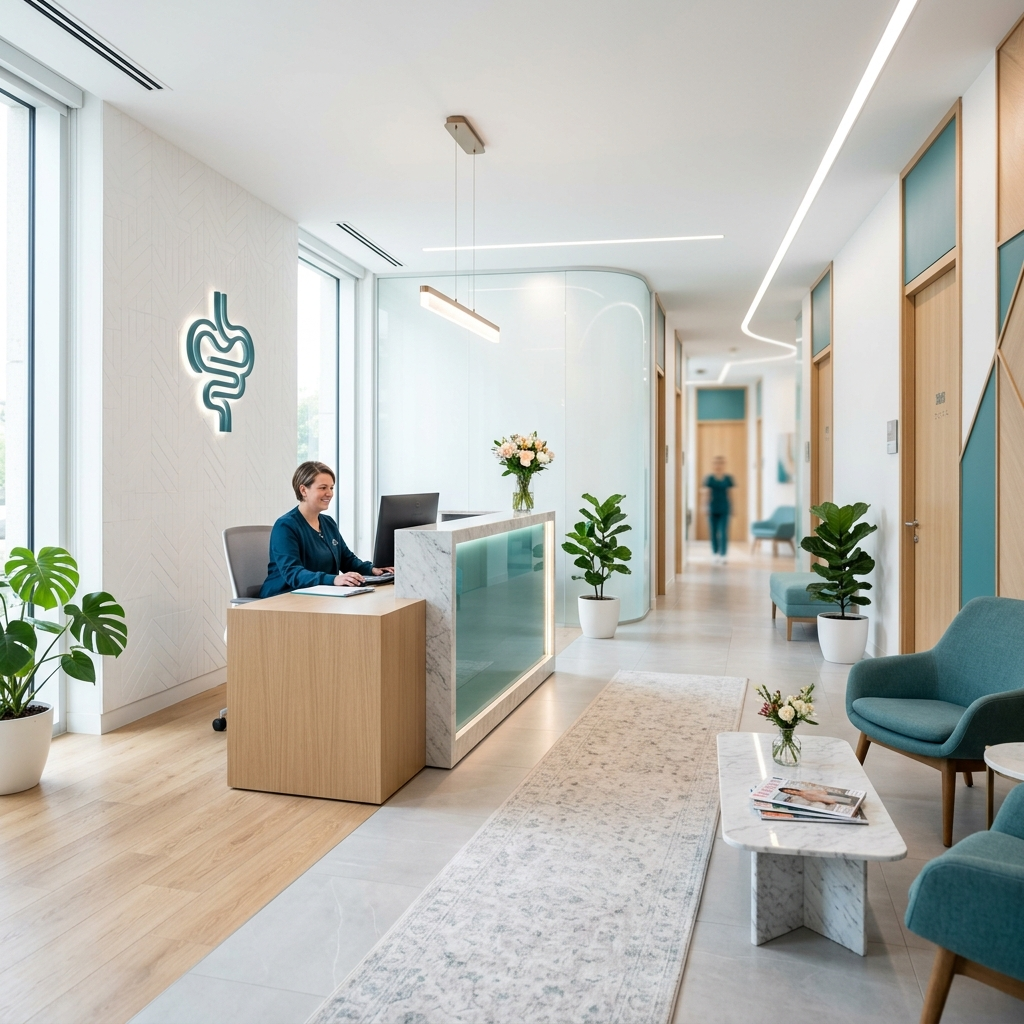
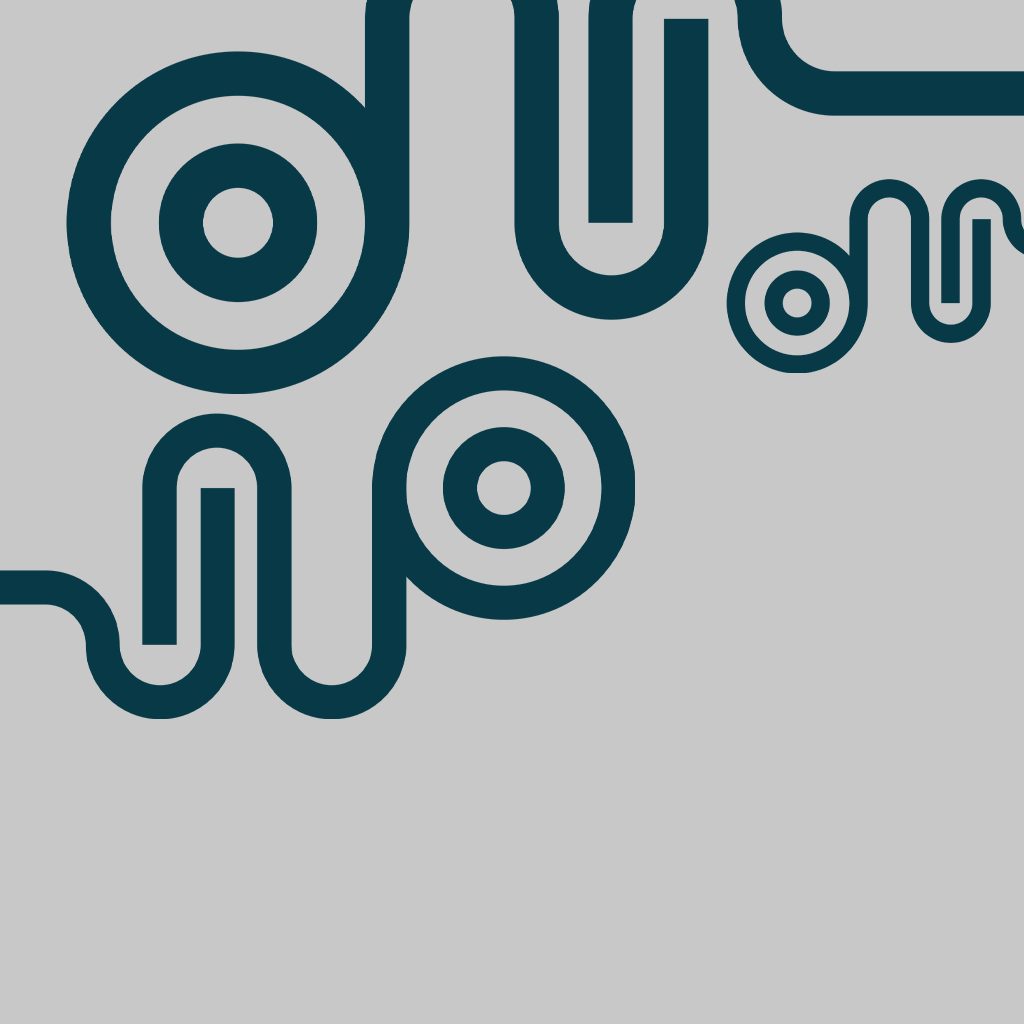
Add files via upload

diff --git a/index.html b/index.html
@@ -57,6 +57,7 @@
                     <div class="hero-image-wrapper">
                         <img src="img/img/dra-luciana.png" alt="Dra. Luciana Schraiber - Gastroenterologista">
                     </div>
+                    <!--
                     <div class="hero-float-card card-top">
                         <i class="fa fa-heartbeat"></i>
                         <div>
@@ -71,6 +72,7 @@
                             <span>de experiência</span>
                         </div>
                     </div>
+                    -->
                 </div>
             </section>
         </div>
@@ -116,19 +118,14 @@
                 <!-- CARD 1 -->
                 <div class="card-item">
                     <div class="card-quote"><i class="fa fa-quote-left"></i></div>
-                    <p class="depoimento-user">"A Dra. Luciana é extremamente atenciosa e técnica. Me senti muito segura
-                        durante a realização da minha colonoscopia. Recomendo muito!"</p>
-                    <div class="card-footer">
-                        <img src="img/img/paciente-maria.png" alt="Maria Silva">
-                        <div>
-                            <p class="nome-user">Maria Silva</p>
-                            <div class="estrelas">
-                                <i class="fa fa-star" aria-hidden="true"></i>
-                                <i class="fa fa-star" aria-hidden="true"></i>
-                                <i class="fa fa-star" aria-hidden="true"></i>
-                                <i class="fa fa-star" aria-hidden="true"></i>
-                                <i class="fa fa-star" aria-hidden="true"></i>
-                            </div>
+                    <p class="depoimento-user">"A Dra. Luciana é uma ótima profissional, agradeço toda dedicação que vem tendo no meu caso, não mediu esforços para achar uma solução para o meu problema. E hoje posso dizer que se estou bem é graças a ela."</p>
+                    <div class="card-footer" style="justify-content: center;">
+                        <div class="estrelas">
+                            <i class="fa fa-star" aria-hidden="true"></i>
+                            <i class="fa fa-star" aria-hidden="true"></i>
+                            <i class="fa fa-star" aria-hidden="true"></i>
+                            <i class="fa fa-star" aria-hidden="true"></i>
+                            <i class="fa fa-star" aria-hidden="true"></i>
                         </div>
                     </div>
                 </div>
@@ -136,19 +133,14 @@
                 <!-- CARD 2 -->
                 <div class="card-item">
                     <div class="card-quote"><i class="fa fa-quote-left"></i></div>
-                    <p class="depoimento-user">"Finalmente consegui tratar minha intolerância alimentar com o suporte da
-                        doutora. Atendimento humano e diagnóstico assertivo."</p>
-                    <div class="card-footer">
-                        <img src="img/img/paciente-joao.png" alt="João Pereira">
-                        <div>
-                            <p class="nome-user">João Pereira</p>
-                            <div class="estrelas">
-                                <i class="fa fa-star" aria-hidden="true"></i>
-                                <i class="fa fa-star" aria-hidden="true"></i>
-                                <i class="fa fa-star" aria-hidden="true"></i>
-                                <i class="fa fa-star" aria-hidden="true"></i>
-                                <i class="fa fa-star" aria-hidden="true"></i>
-                            </div>
+                    <p class="depoimento-user">"Melhor médica não há! Tenho orgulho em falar de você para todo mundo. Além de excelente profissional, é um ser humano maravilhoso. Se preocupa com seus pacientes, super dedicada, atenciosa e acima de tudo humana. Só tenho a agradecer por tudo o que faz por mim e minhas filhas. Gratidão sempre."</p>
+                    <div class="card-footer" style="justify-content: center;">
+                        <div class="estrelas">
+                            <i class="fa fa-star" aria-hidden="true"></i>
+                            <i class="fa fa-star" aria-hidden="true"></i>
+                            <i class="fa fa-star" aria-hidden="true"></i>
+                            <i class="fa fa-star" aria-hidden="true"></i>
+                            <i class="fa fa-star" aria-hidden="true"></i>
                         </div>
                     </div>
                 </div>
@@ -156,19 +148,14 @@
                 <!-- CARD 3 -->
                 <div class="card-item">
                     <div class="card-quote"><i class="fa fa-quote-left"></i></div>
-                    <p class="depoimento-user">"Excelente profissional. O consultório é muito organizado e a Dra.
-                        explica tudo com muita clareza. Nota dez!"</p>
-                    <div class="card-footer">
-                        <img src="img/img/paciente-ana.png" alt="Ana Costa">
-                        <div>
-                            <p class="nome-user">Ana Costa</p>
-                            <div class="estrelas">
-                                <i class="fa fa-star" aria-hidden="true"></i>
-                                <i class="fa fa-star" aria-hidden="true"></i>
-                                <i class="fa fa-star" aria-hidden="true"></i>
-                                <i class="fa fa-star" aria-hidden="true"></i>
-                                <i class="fa fa-star" aria-hidden="true"></i>
-                            </div>
+                    <p class="depoimento-user">"Dra, desculpe, hoje é domingo, mas estava falando com uma amiga sobre o tanto que estou apaixonada por minha médica porque ela dá uma atenção para o paciente que não existe nada igual... Adivinha? Ela também nunca viu uma médica igual na vida. Olha... Você não existe..."</p>
+                    <div class="card-footer" style="justify-content: center;">
+                        <div class="estrelas">
+                            <i class="fa fa-star" aria-hidden="true"></i>
+                            <i class="fa fa-star" aria-hidden="true"></i>
+                            <i class="fa fa-star" aria-hidden="true"></i>
+                            <i class="fa fa-star" aria-hidden="true"></i>
+                            <i class="fa fa-star" aria-hidden="true"></i>
                         </div>
                     </div>
                 </div>
@@ -177,6 +164,7 @@
     </section>
 
 
+    <!--
     <section class="clientes">
         <div class="container">
             <span class="section-tag"><i class="fa fa-shield"></i> Convênios</span>
@@ -198,6 +186,7 @@
             </div>
         </div>
     </section>
+    -->
 
 
     <section class="faca-mais">
@@ -222,15 +211,17 @@
                     <img src="img/img/logo.png" alt="Logo Dra. Luciana Schraiber" class="footer-logo">
                     <p>Cuidando da sua saúde digestiva com dedicação, tecnologia e atendimento humanizado.</p>
                     <div class="links">
-                        <a href="#" aria-label="Facebook"> <i class="fa fa-facebook"></i> </a>
-                        <a href="#" aria-label="Instagram"> <i class="fa fa-instagram"></i> </a>
+                        <a href="https://wa.me/5516992807783" target="_blank" aria-label="WhatsApp"> <i class="fa fa-whatsapp"></i> </a>
+                        <a href="https://www.instagram.com/scopia.endoscopia/" target="_blank" aria-label="Instagram"> <i class="fa fa-instagram"></i> </a>
+                        <a href="https://www.facebook.com/share/1bHiFmFARU/" target="_blank" aria-label="Facebook"> <i class="fa fa-facebook"></i> </a>
+                        <a href="mailto:[email redacted]" aria-label="E-mail"> <i class="fa fa-envelope"></i> </a>
                     </div>
                 </div>
                 <div class="footer-contact">
                     <h4>Agendamento</h4>
-                    <p><i class="fa fa-whatsapp"></i> (16) 99292-4468</p>
-                    <p><i class="fa fa-phone"></i> (16) 3396-1260</p>
-                    <p><i class="fa fa-map-marker"></i> Av. Joaquim de Carvalho, 174<br>Santa Lúcia - SP</p>
+                    <p><i class="fa fa-whatsapp"></i> (16) 99280-7783</p>
+                    <p><i class="fa fa-phone"></i> (16) 3303-2020</p>
+                    <p><i class="fa fa-map-marker"></i> Av. São Geraldo, 855 - Centro<br>Araraquara - SP, 14801-210</p>
                 </div>
             </div>
             <div class="footer-bottom">

diff --git a/contato.html b/contato.html
@@ -47,7 +47,7 @@
         <div class="container">
             <div class="mapa">
                 <iframe
-                    src="https://www.google.com/maps/embed?pb=!1m18!1m12!1m3!1d3707.4083860921914!2d-48.088738924851924!3d-21.6868597801323!2m3!1f0!2f0!3f0!3m2!1i1024!2i768!4f13.1!3m3!1m2!1s0x94b8f7fbba62fd4f%3A0x3b8713fcc87b6d76!2sAv.%20Joaquim%20de%20Carvalho%2C%20174%2C%20Santa%20L%C3%BAcia%20-%20SP%2C%2014825-000!5e0!3m2!1spt-BR!2sbr!4v1708054403015!5m2!1spt-BR!2sbr"
+                    src="https://maps.google.com/maps?q=Av.%20S%C3%A3o%20Geraldo,%20855%20-%20Centro,%20Araraquara%20-%20SP,%2014801-210&t=&z=15&ie=UTF8&iwloc=&output=embed"
                     width="100%" height="500" style="border:0;" allowfullscreen="" loading="lazy"
                     referrerpolicy="no-referrer-when-downgrade"></iframe>
             </div>
@@ -55,19 +55,19 @@
                 <div class="left-side">
                     <div>
                         <i class="fa fa-map-marker"></i>
-                        <p>Av. Joaquim de Carvalho, nº 174<br>Centro, Santa Lúcia - SP</p>
+                        <p>Av. São Geraldo, 855<br>Centro, Araraquara - SP, 14801-210</p>
                     </div>
                     <div>
                         <i class="fa fa-envelope"></i>
-                        <p>[email redacted]</p>
+                        <p>[email redacted]</p>
                     </div>
                     <div>
                         <i class="fa fa-whatsapp"></i>
-                        <p>(16) 99292-4468 (WhatsApp)</p>
+                        <p>(16) 99280-7783 (WhatsApp)</p>
                     </div>
                     <div>
                         <i class="fa fa-phone"></i>
-                        <p>(16) 3396-1260 (Fixo)</p>
+                        <p>(16) 3303-2020 (Fixo)</p>
                     </div>
                 </div>
                 <div class="right-side">
@@ -94,15 +94,17 @@
                     <img src="img/img/logo.png" alt="Logo Dra. Luciana Schraiber" class="footer-logo">
                     <p>Cuidando da sua saúde digestiva com dedicação, tecnologia e atendimento humanizado.</p>
                     <div class="links">
-                        <a href="#" aria-label="Facebook"> <i class="fa fa-facebook"></i> </a>
-                        <a href="#" aria-label="Instagram"> <i class="fa fa-instagram"></i> </a>
+                        <a href="https://wa.me/5516992807783" target="_blank" aria-label="WhatsApp"> <i class="fa fa-whatsapp"></i> </a>
+                        <a href="https://www.instagram.com/scopia.endoscopia/" target="_blank" aria-label="Instagram"> <i class="fa fa-instagram"></i> </a>
+                        <a href="https://www.facebook.com/share/1bHiFmFARU/" target="_blank" aria-label="Facebook"> <i class="fa fa-facebook"></i> </a>
+                        <a href="mailto:[email redacted]" aria-label="E-mail"> <i class="fa fa-envelope"></i> </a>
                     </div>
                 </div>
                 <div class="footer-contact">
                     <h4>Agendamento</h4>
-                    <p><i class="fa fa-whatsapp"></i> (16) 99292-4468</p>
-                    <p><i class="fa fa-phone"></i> (16) 3396-1260</p>
-                    <p><i class="fa fa-map-marker"></i> Av. Joaquim de Carvalho, 174<br>Santa Lúcia - SP</p>
+                    <p><i class="fa fa-whatsapp"></i> (16) 99280-7783</p>
+                    <p><i class="fa fa-phone"></i> (16) 3303-2020</p>
+                    <p><i class="fa fa-map-marker"></i> Av. São Geraldo, 855 - Centro<br>Araraquara - SP, 14801-210</p>
                 </div>
             </div>
             <div class="footer-bottom">

diff --git a/servicos.html b/servicos.html
@@ -146,15 +146,17 @@
                     <img src="img/img/logo.png" alt="Logo Dra. Luciana Schraiber" class="footer-logo">
                     <p>Cuidando da sua saúde digestiva com dedicação, tecnologia e atendimento humanizado.</p>
                     <div class="links">
-                        <a href="#" aria-label="Facebook"> <i class="fa fa-facebook"></i> </a>
-                        <a href="#" aria-label="Instagram"> <i class="fa fa-instagram"></i> </a>
+                        <a href="https://wa.me/5516992807783" target="_blank" aria-label="WhatsApp"> <i class="fa fa-whatsapp"></i> </a>
+                        <a href="https://www.instagram.com/scopia.endoscopia/" target="_blank" aria-label="Instagram"> <i class="fa fa-instagram"></i> </a>
+                        <a href="https://www.facebook.com/share/1bHiFmFARU/" target="_blank" aria-label="Facebook"> <i class="fa fa-facebook"></i> </a>
+                        <a href="mailto:[email redacted]" aria-label="E-mail"> <i class="fa fa-envelope"></i> </a>
                     </div>
                 </div>
                 <div class="footer-contact">
                     <h4>Agendamento</h4>
-                    <p><i class="fa fa-whatsapp"></i> (16) 99292-4468</p>
-                    <p><i class="fa fa-phone"></i> (16) 3396-1260</p>
-                    <p><i class="fa fa-map-marker"></i> Av. Joaquim de Carvalho, 174<br>Santa Lúcia - SP</p>
+                    <p><i class="fa fa-whatsapp"></i> (16) 99280-7783</p>
+                    <p><i class="fa fa-phone"></i> (16) 3303-2020</p>
+                    <p><i class="fa fa-map-marker"></i> Av. São Geraldo, 855 - Centro<br>Araraquara - SP, 14801-210</p>
                 </div>
             </div>
             <div class="footer-bottom">

diff --git a/sobre.html b/sobre.html
@@ -76,15 +76,17 @@
                     <img src="img/img/logo.png" alt="Logo Dra. Luciana Schraiber" class="footer-logo">
                     <p>Cuidando da sua saúde digestiva com dedicação, tecnologia e atendimento humanizado.</p>
                     <div class="links">
-                        <a href="#" aria-label="Facebook"> <i class="fa fa-facebook"></i> </a>
-                        <a href="#" aria-label="Instagram"> <i class="fa fa-instagram"></i> </a>
+                        <a href="https://wa.me/5516992807783" target="_blank" aria-label="WhatsApp"> <i class="fa fa-whatsapp"></i> </a>
+                        <a href="https://www.instagram.com/scopia.endoscopia/" target="_blank" aria-label="Instagram"> <i class="fa fa-instagram"></i> </a>
+                        <a href="https://www.facebook.com/share/1bHiFmFARU/" target="_blank" aria-label="Facebook"> <i class="fa fa-facebook"></i> </a>
+                        <a href="mailto:[email redacted]" aria-label="E-mail"> <i class="fa fa-envelope"></i> </a>
                     </div>
                 </div>
                 <div class="footer-contact">
                     <h4>Agendamento</h4>
-                    <p><i class="fa fa-whatsapp"></i> (16) 99292-4468</p>
-                    <p><i class="fa fa-phone"></i> (16) 3396-1260</p>
-                    <p><i class="fa fa-map-marker"></i> Av. Joaquim de Carvalho, 174<br>Santa Lúcia - SP</p>
+                    <p><i class="fa fa-whatsapp"></i> (16) 99280-7783</p>
+                    <p><i class="fa fa-phone"></i> (16) 3303-2020</p>
+                    <p><i class="fa fa-map-marker"></i> Av. São Geraldo, 855 - Centro<br>Araraquara - SP, 14801-210</p>
                 </div>
             </div>
             <div class="footer-bottom">

diff --git a/js/main.js b/js/main.js
@@ -10,7 +10,7 @@ function closeMenu(){
 
 function enviarMensagemWhatsApp() {
     // Número de telefone para o qual você deseja enviar a mensagem
-    var numeroTelefone = "+5516992924468"; // Substitua pelo seu número de telefone com o código do país
+    var numeroTelefone = "+5516992807783"; // Substitua pelo seu número de telefone com o código do país
 
     // Mensagem que você deseja enviar
     var mensagem = "Olá! Gostaria de entrar em contato.";
@@ -29,7 +29,7 @@ function enviarFormWhatsApp() {
     var mensagem = document.getElementById("mensagem").value;
 
     // Número de telefone para o qual você deseja enviar a mensagem
-    var numeroTelefone = "+5516992924468"; // Substitua pelo seu número de telefone com o código do país
+    var numeroTelefone = "+5516992807783"; // Substitua pelo seu número de telefone com o código do país
 
     // Monta a mensagem com as informações do formulário
     var mensagemWhatsApp = "Nome: " + nome + "%0A";